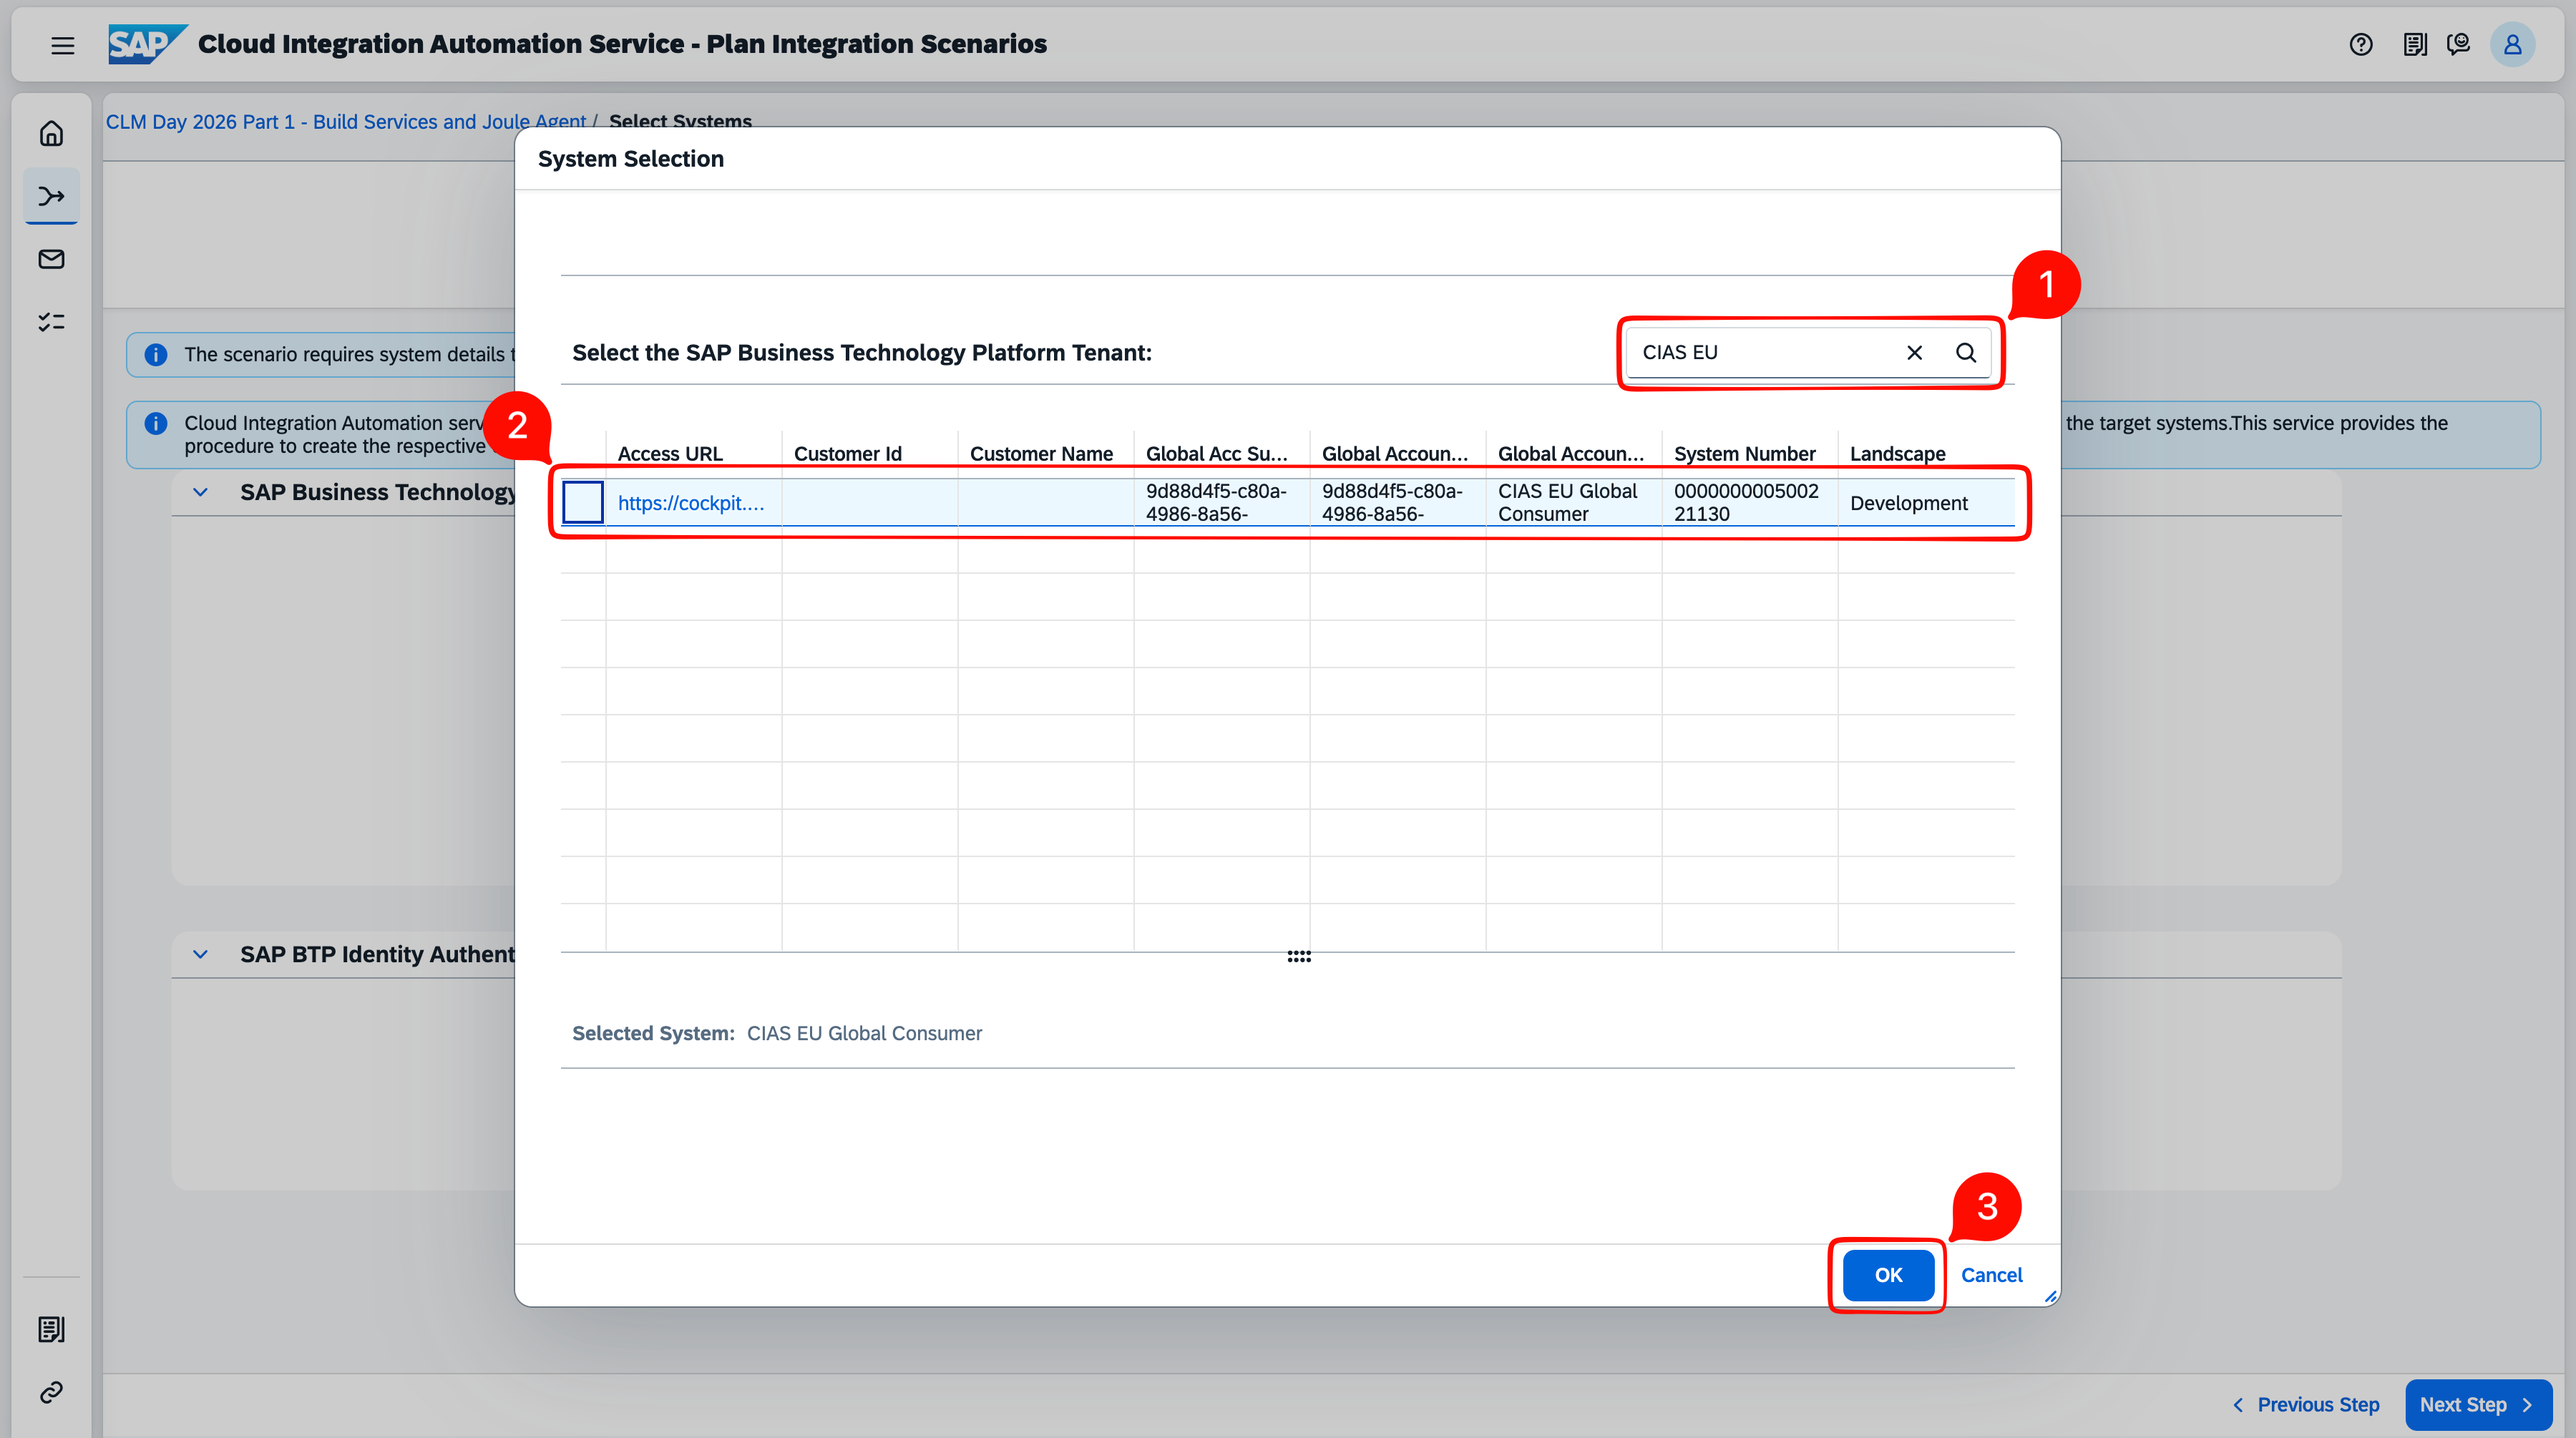
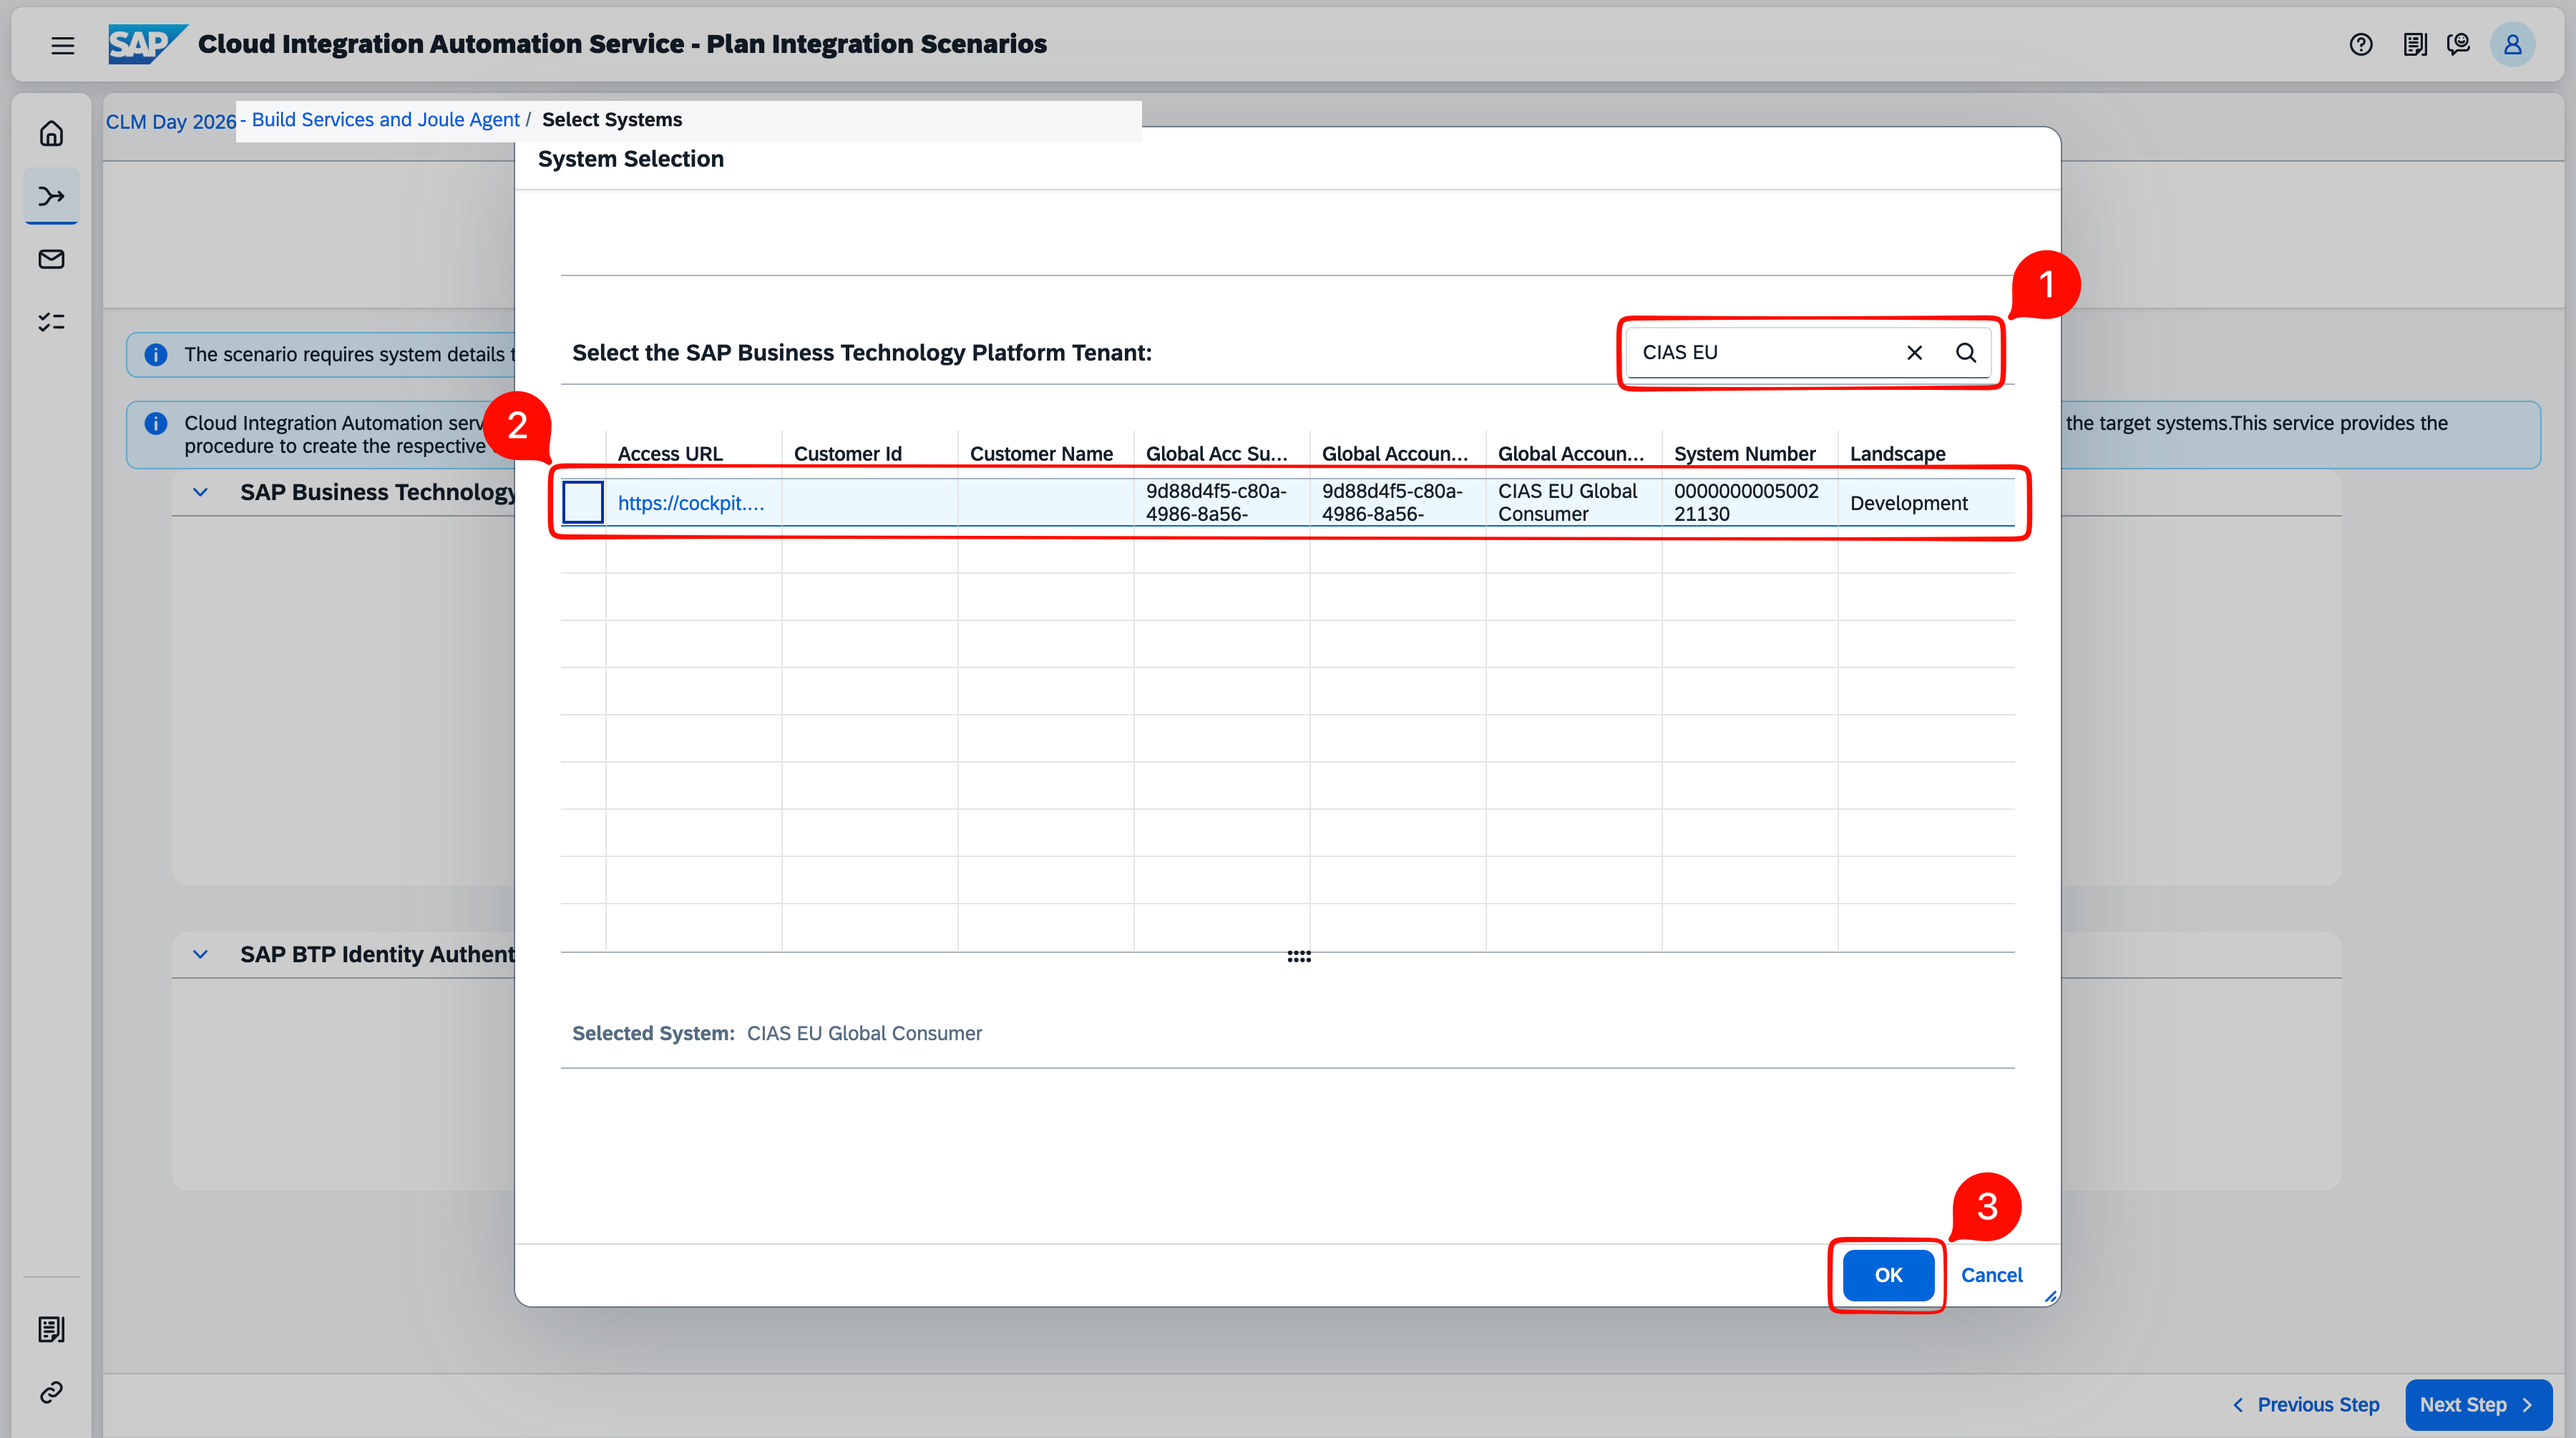
Update READMEs, refresh images, add Joule Studio section and architecture diagram
- Drop Part 2 references; single workflow scenario throughout
- Add What is Joule Studio? section with overview image to root README
- Update ex2: workflow name, scenario count, step 5 scope description
- Refresh plan_handson, monitoring_handson, plan_overiew screenshots
- Add joule_studio_overview.png and overview.drawio (updated BTP architecture with SAP Joule)

Changed region(s): [[0.0933, 0.0617, 0.4667, 0.1234]]

diff --git a/README.md b/README.md
@@ -2,10 +2,7 @@
 
 ## Overview
 
-This session introduces participants to the **Cloud Integration Automation Service**, where you will gain hands-on experience implementing automated scenarios on **SAP BTP**. The hands-on is split into two parts:
-
-- **Part 1 - Provision SAP Build services and create a custom Joule agent**: A solution to provision SAP Build services and create a custom **Joule agent** that helps maintenance planners validate whether a maintenance order can be fulfilled based on current material stock.
-- **Part 2 *(Optional — if time permits)* – Set up a SAP Fiori launchpad site in SAP Build Work Zone and publish apps to it**: A solution to build a **SAP Fiori launchpad site** using SAP Build Work Zone, standard edition.
+This session introduces participants to the **Cloud Integration Automation Service**, where you will gain hands-on experience implementing automated scenarios on **SAP BTP**. In this hands-on, you will provision SAP Build services and create a custom **Joule agent** that helps maintenance planners validate whether a maintenance order can be fulfilled based on current material stock.
 
 **<ins>Scenario Description</ins>**
 
@@ -20,6 +17,13 @@ Cloud Integration Automation Service also provisions SAP Build Work Zone, standa
 **<ins>Configuration of the scenario with Cloud Integration Automation Service</ins>**
 
 In this hands-on session, Cloud Integration Automation Service provisions the following services on SAP Business Technology Platform and sets up integration with SAP Cloud Identity Service. As a final step, you will use **Joule Studio** to build a custom agent and explore one of the outcomes of the automated setup.
+
+## What is Joule Studio?
+
+Joule Studio, classic edition, is a capability in SAP Build that enables organizations to design and deploy custom Joule skills and AI agents, extending Joule's intelligence to meet the unique needs of the business. These skills help automate workflows, deliver intelligent recommendations, and streamline processes across both SAP and non-SAP systems.
+
+![joule_studio_overview](images/joule_studio_overview.png)
+
 
 ## Services Provisioned in SAP BTP
 
@@ -65,8 +69,6 @@ Use the following credentials to log in to the systems listed above (Cloud Integ
 - [Exercise 3 - Monitor and Complete the Setup](ex3/README.md)
 
 Once you complete the above exercises, you will have provisioned and configured services on BTP using Cloud Integration Automation Service and created a custom Joule agent in Joule Studio.
-
-> **What's next?** You can run **Part 2** of this hands-on to create a SAP Fiori launchpad site using SAP Build Work Zone, standard edition.
 
 > **Further Reading:** Curious about the data behind the agent? See [About the Sample Maintenance Backend](info/README.md) for the data model, entity descriptions, and sample prompts to try.
 

diff --git a/ex2/README.md b/ex2/README.md
@@ -1,5 +1,5 @@
 # Exercise 2 - Generate the Workflow
-In this exercise, you will __generate a workflow__ for the Integration scenario - __CLM Day 2026 Part 1 - Provision SAP Build services and create a custom Joule agent.__.
+In this exercise, you will __generate a workflow__ for the Integration scenario - __Provision SAP Build services and create a custom Joule agent__.
 
 ## Access the Cloud Integration Automation Service
 
@@ -18,11 +18,11 @@ In this exercise, you will __generate a workflow__ for the Integration scenario 
 
    ![scenario selection](../images/plan_handson_1.png)
 
-2. On the **Integration Solutions and Scenarios** page, search for **CLM** in the search box. The **CLM Day Event - Hands-On Enablement** solution appears with both 2026 scenarios listed.
+2. On the **Integration Solutions and Scenarios** page, search for **CLM** in the search box. The **CLM Day Event - Hands-On Enablement** solution appears with the 2026 scenario listed.
 
    ![scenario selection](../images/plan_handson_2.png)
 
-3. Select **CLM Day 2026 Part 1 - Provision SAP Build services and create a custom Joule agent.** A panel opens on the right showing the scenario description.
+3. Select **CLM Day 2026 - Provision Build services and create a custom Joule agent.** A panel opens on the right showing the scenario description.
 
    ![scenario selection](../images/plan_handson_3.png)
 
@@ -30,7 +30,7 @@ In this exercise, you will __generate a workflow__ for the Integration scenario 
 
    ![system selection](../images/plan_handson_4.png)
 
-5. In the **Select Scope** step, three services are pre-selected and required to complete this hands-on: **SAP Build Process Automation** and **SAP Joule** (needed for Part 1), and **SAP Build Work Zone, standard edition** (needed for Part 2). Do not deselect these. The remaining services are optional — you may select additional ones if you would like to explore further. Click **Next Step** to continue.
+5. In the **Select Scope** step, two services are pre-selected and required to complete this hands-on: **SAP Build Process Automation** and **SAP Joule**. Do not deselect these. The remaining services are optional — you may select additional ones if you would like to explore further. Click **Next Step** to continue.
 
    ![scope selection](../images/plan_handson_5.png)
 
